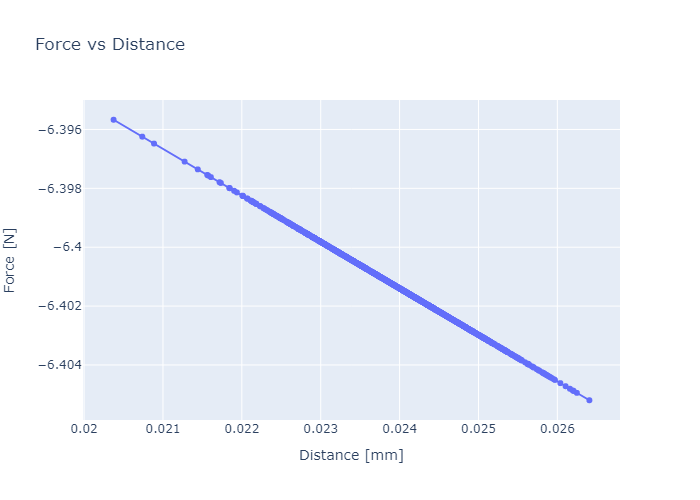
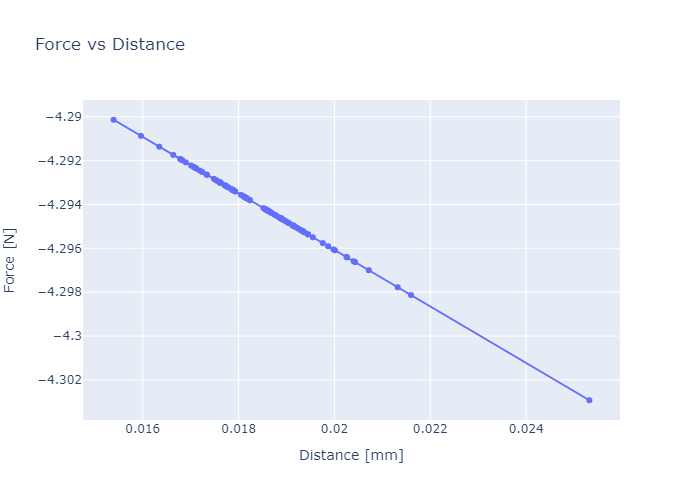
most recent updates with comments, decided to not use average

diff --git a/Yokogawa/YK-DL850E-ACQ/yk.py b/Yokogawa/YK-DL850E-ACQ/yk.py
@@ -1,5 +1,6 @@
 import os
 import sys
+import logging
 import pyvisa
 import re
 import numpy as np
@@ -12,6 +13,16 @@ from typing import Optional
 import plotly.io as pio
 import pandas as pd
 
+#####
+## Things to change
+#####
+# record_length = 1k
+# sampling rate = 5 samples / sec
+# acquisition mode = normal
+# record time = 200s
+# Timebase - 20s / div
+
+sys.set_int_max_str_digits(400000) 
 
 def extract_number(string):
     pattern = r'[-+]?\d*\.?\d+(?:[eE][-+]?\d+)?'
@@ -55,120 +66,178 @@ def get_devices():
 
 
 class acq:
-    def __init__(self, chunkSize = int(1E5), channels=[1,2], mode=['X vs Y'], amp_gain=1):
-        self.prog = {}
+    def __init__(self, chunkSize = int(1E5), channels=[1,2], mode=['X vs Y'], amp_gain=1,
+                 volt=None,
+                 acquisition_time=None, sampling_rate=None, record_length=None,
+                 noise_period_ms=41.67):
+        """
+        Initialize the acq Data collector with time control options.
+
+        Args:
+            
+        """
+
         self.yokogawaAddress = 'USB0::0x0B21::0x003F::39314B373135373833::INSTR'
         self.yk = None
         self.chunkSize = chunkSize
         self.channels = channels
-        self.channel_data = {}
+        self.channel_data = {channel: None for channel in channels}
         self.mode = mode
         self.amp_gain = amp_gain
-        self.volt = 4.0 # The total voltage applied to the displacement sensor (Needed to compute the distance traveled)
+        self.prog = {
+            'iteration': 1,
+            'prog': 0
+        }
+        # Parameters that will vary by measurement
+        self.volt = volt, # The total voltage applied to the displacement sensor (Needed to compute the distance traveled)
+        self.acquisition_time = acquisition_time # Desired acquisition time in seconds
+        self.sampling_rate = sampling_rate # Desired sampling rate in Hz
+        self.record_length = record_length # Desired number of points to collect 
+        self.noise_period_ms = noise_period_ms # Period of noise to filter out in milliseconds
+
+        # Configure logging
+        logging.basicConfig(level=logging.INFO, format='%(asctime)s - %(levelname)s - %(message)s')
+        self.logger = logging.getLogger(__name__)
+
 
     def open_instruments(self) -> Optional[pyvisa.resources.MessageBasedResource]:
         rm = pyvisa.ResourceManager()
         resources = rm.list_resources()
             
         if self.yokogawaAddress not in resources:
-            print(f"Error: Yokogawa oscilloscope not found")
-            print("Available resources:", resources)
+            logging.info(f"Error: Yokogawa oscilloscope not found")
+            logging.info("Available resources:", resources)
             return None
 
         try:
             self.yk = rm.open_resource(self.yokogawaAddress)
-            print(f"Successfully opened Yokogawa oscilloscope at {self.yokogawaAddress}")
+            logging.info(f"Successfully opened Yokogawa oscilloscope at {self.yokogawaAddress}")
             # return self.yokogawaInstrument
             
         except pyvisa.errors.VisaIOError as e:
-            print(f"Error opening Yokogawa oscilloscope: {e}")
+            logging.info(f"Error opening Yokogawa oscilloscope: {e}")
             return None
     
 
 
-    def _initialize_oscilloscope(self, sample_rate='10k', time_div='2s'):
+    def _initialize_oscilloscope(self, sampling_rate='5000', time_div='1s', acquisition_time=20):
 
-        # Initialize the instance of the acq object
-        self.channel_data = {}
-        self.prog = {
-            'iteration': 1,
-            'prog': 0
-        }
-
-        # Yokogawa initialization
+        # Initialize an instance of the acq object
+        
+        # Ensure a fresh restart
         self.yk.write(':STOP')
         self.yk.write(':WAVEFORM:FORMAT WORD')
         self.yk.write(':WAVEFORM:BYTEORDER LSBFIRST')
         
         # General Timebase settings
-        self.yk.write(':TIMebase:TDIV ' + '1s')
-        self.yk.write(':TIMebase:SRATe' + sample_rate)
-        # self.yk.write(':TIMebase:TDIV ' + time_div)
+        self.yk.write(':TIMebase:TDIV ' + time_div)
         
+        # @>-->----- Set the sampling rate
+        self.yk.write(':TIMebase:SRATe' + sampling_rate)
+        logging.info(f"Finished setting the desired sampling rate: {sampling_rate} Hz")
+        print(f"Finished setting the desired time division: {time_div}" )
+        self.sampling_rate = extract_number(sampling_rate)
+
+        
+        # When only acquisition time is given
+        # Round to the nearest valid record length. p.5-30 in the communications manual
+        print(f"The acquisition time is currently: {self.acquisition_time} ms")
+        print(f"The record length is currently: {self.record_length}")
+        if self.acquisition_time is None and self.record_length is None:
+            print("Inside the if statement")
+            required_points = int(acquisition_time * self.sampling_rate)
+            valid_lengths = [1000, 2500, 5000, 10000, 25000, 50000, 100000, 250000, 500000, 1000000, 2500000,
+             5000000, 10000000, 25000000, 50000000, 100000000]
+            closest_length = min(valid_lengths, key=lambda x: abs(x-required_points))
+            self.yk.write(f':ACQuire:RLENgth {closest_length}')
+            actual_acquisition_time = closest_length/self.sampling_rate
+            self.acquisition_time = actual_acquisition_time
+            
+
+            print(f"Finished setting record length to {closest_length} points")
+            print(f"Requested acquisition time: {acquisition_time}ms")
+            print(f"Actual acquisition time: {actual_acquisition_time:.3f}ms")
+        
+
+        # Set up acquisition mode to averaging
+        ### @>->---
+        self.logger.info(f"Noise period in ms: {self.noise_period_ms}")
+
+        self.logger.info(f"Sampling rate: {self.sampling_rate}")
+
+        self.logger.info(f"Chunk size: {self.chunkSize}")
+
+
+        samples_per_noise_period = int(self.noise_period_ms * self.sampling_rate/ self.chunkSize)
+        print(samples_per_noise_period)
+        average_count = 2 ** int(np.log2(samples_per_noise_period) + 0.5)
+        average_count = max(2, min(65536, average_count))
+
+        self.logger.info(f"Average count: {average_count}")
+
+        self.yk.write(':ACQuire:MODE AVERage')
+        self.yk.write(f':ACQuire:AVERage:COUNt {average_count}')
+        self.yk.write(':ACQuire:AVERage:EWEight 16')
+
+        
+        # Initialize each of the channels
         for channel in self.channels:
-            self.channel_data[channel] = None
+            
             self.yk.write(':WAVeform:TRACE ' + str(channel))
             result = self.yk.query('WAVEFORM:RECord? MINimum')
             min_record = int(extract_number(result))
             self.yk.write(':WAVeform:RECord ' + str(min_record))
         
-        # Initialize each of the channels
-
-
     
-    def initialize_instruments(self, sample_rate, time_div):
-        self._initialize_oscilloscope(sample_rate, time_div)
+    def initialize_instruments(self, sampling_rate, time_div, acquisition_time):
+        self._initialize_oscilloscope(sampling_rate, time_div, acquisition_time)
 
+
+    # Verify that the sampling rate matches the expected value.
+    def _verify_sampling_rate(self):
+        
+        actual_rate = extract_number(self.yk.query(':TIMebase:SRATe?'))
+        
+        if self.sampling_rate and actual_rate != self.sampling_rate:
+            self.logger.warning(
+                f"Sampling rate mismatch - Expected: {self.sampling_rate} Hz, "
+                f"Actual: {actual_rate} Hz"
+            )
+        return actual_rate
 
     # Currently, the run() function contains initialization steps and yk.close()
     def run(self):
 
-        flag = True
-        self.yk.write(':TIMebase:SRATe' + sample_rate)
-        result = self.yk.query(':WAVeform:SRATe?')  # Get sampling rate
-        sampling_rate = extract_number(result)
-
-        # Some initialization of yk needed here
+        # Check that the sampling rate is what was specified, and use the sampling rate in the oscilloscope if it is different
+        sampling_rate = self._verify_sampling_rate()
+        
 
         for channel in self.channels:
-            if flag:
 
-                print("set length")
-                length = int(extract_number(self.yk.query(':WAVEFORM:LENGth?')))
-                print("the length of the waveform is:" + str(length))
-                print("THE waveform capture length is: " + str(self.yk.query(":WAVEFORM:CAPTure:LENGth?")))
+            self.logger.info(f"Processing channel {channel}")
+            length = int(extract_number(self.yk.query(':WAVEFORM:LENGth?')))
+            
+            data = {}
 
-                print("Waveform:start is " + str(self.yk.query(":WAVeform:STARt?")))
-                print("Waveform:end is " + str(self.yk.query(":WAVeform:END?")))
+            print("Defining n")
+            n = int(np.floor(length / self.chunkSize))
+            t_data = []
+
+
+            for i in tqdm(range(n + 1)):
                 
-    
-                # Calculate the time
-                #time_length = (end - start) / sample_rate
-                print("the queried sample rate: " + str(sampling_rate))
+                m = min(length, (i + 1) * self.chunkSize) - 1
 
-            if flag:
-
-                data = {}
-
-                print("Defining n")
-                n = int(np.floor(length / self.chunkSize))
-                t_data = []
-
-                print("starting the for loop for tqdm")
-                for i in tqdm(range(n + 1)):
-                    
-                    m = min(length, (i + 1) * self.chunkSize) - 1
-
-                    print("Set the start and end data point in the waveform")
-                    
-                    self.yk.write(":WAVEFORM:START {};:WAVEFORM:END {}".format(i * self.chunkSize, m))
+                print("Set the start and end data point in the waveform")
+                
+                self.yk.write(":WAVEFORM:START {};:WAVEFORM:END {}".format(i * self.chunkSize, m))
 
 
-                    print("query binary values")
-                    buff = self.yk.query_binary_values(':WAVEFORM:SEND?', datatype='h', container=list)
+                print("query binary values")
+                buff = self.yk.query_binary_values(':WAVEFORM:SEND?', datatype='h', container=list)
 
-                    t_data.extend(buff)
-                    self.prog['prog'] = (i + 1) / (n + 1)
+                t_data.extend(buff)
+                self.prog['prog'] = (i + 1) / (n + 1)
                 
                 # Query the waveform offset
                 result = self.yk.query(':WAVEFORM:OFFSET?')
@@ -207,6 +276,7 @@ class acq:
                 self.channel_data[channel] = data
             self.prog['iteration'] += 1
             print('Channel completed')
+
         self.yk.close()
 
     # Assumes that the oscilloscope inputs are known and fixed
@@ -306,7 +376,8 @@ class acq:
 
             # Get the distance data and process it to get the correct values
             # x = -7.766 * np.array(self.channel_data[self.channels[0]]['t_volt'])
-            x = -38.1/self.volt * np.array(self.channel_data[self.channels[0]]['t_volt'])
+            print(str(self.volt[0]))
+            x = -38.1/self.volt[0] * np.array(self.channel_data[self.channels[0]]['t_volt']) # Change from negative to positive
             x = x - np.min(x)
             self.channel_data[self.channels[1]]['distance (mm)'] = x
             #self.channel_data[self.channels[1]]['force (N)'] = []
@@ -316,7 +387,7 @@ class acq:
             # y = 9.81 * 8.1 * (np.array(self.channel_data[self.channels[1]]['t_volt']) - 5.0715)
             
             # Assuming a linear relation between output voltage range and measurable force range
-            # y = 4.44822162 * (0.25 * (np.array(self.channel_data[self.channels[1]]['t_volt']) - 1.25)
+            y = 4.44822162 * (0.25 * (np.array(self.channel_data[self.channels[1]]['t_volt']) - 1.25))
 
             ### Grams to Newtons, calibration with the weights
             y = 9.81 * (1.2506 * np.array(self.channel_data[self.channels[1]]['t_volt']) - 0.6525)
@@ -367,28 +438,42 @@ if __name__ == "__main__":
     save_dir=os.path.join(os.path.expanduser("~\\Desktop\SoyeonChoi\QZS"), save_folder)
 
     # Parameters (The sample rate is not being reflected in the settings, defaults to 1kHz. Why?)
-    sample_rate='10000Hz'
+    desired_sample_rate='10000'
+    desired_acquisition_time_ms=80000 # milliseconds
+    # record_length is not specified
+    noise_period_ms=41.67
 
     force_cal_params = []
     dis_cal_params = []
 
     print("Test F vs. D acquisition")
-    acq=acq()
-    acq.open_instruments()
-    acq.initialize_instruments(sample_rate=sample_rate, time_div='2s')
+    osc=acq(
+        channels=[1,2],
+        mode=['X vs Y'],
+        volt=4.0
+    )
+
+    osc.open_instruments()
+
+    # During the initialization, osc object's sampling_rate and other variables will get updated
+    osc.initialize_instruments(sampling_rate=desired_sample_rate,
+                               time_div='200s',
+                               acquisition_time=desired_acquisition_time_ms)
+    print("After initialization, the acquisition time is ")
+    print(osc.acquisition_time)
 
     print("Running the measurement")
 
 
     try:
-        acq.run()
+        osc.run()
     except Exception as e:
         print(f"Error opening running Yokogawa oscilloscope: {e}")
 
-    print(acq.channel_data)
-    figs = acq.plot()
+    print(osc.channel_data)
+    figs = osc.plot()
     save_figures(figs)
-    acq.save('test_FvsD', save_dir)
+    osc.save('test_FvsD', save_dir)
     
     # dataframe = acq.save_data_to_csv(save_dir)
 
